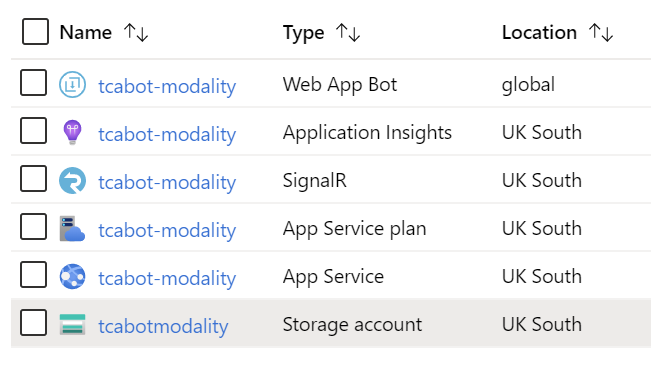
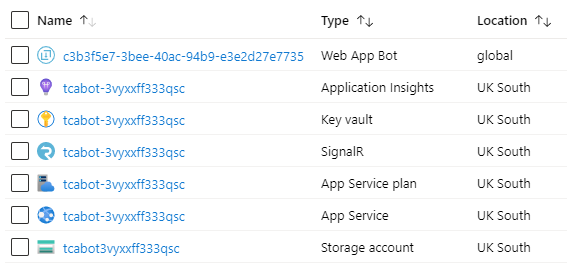
Updated to include Key Vault

diff --git a/TeamsChatAssist/armdeploy.md b/TeamsChatAssist/armdeploy.md
@@ -10,13 +10,14 @@ Teams Chat Assist Bot can be provided as an Azure Resource Manager (ARM) templat
 
 This ARM Template will install resources in your Azure tenant. The template will deploy the following resources:
 
-| Service Type  | Description   |
-| ------------- | ------------- |
-| Web App Bot  | S1 Standard |
-| Web App Service  | S1, 100 Total ACU, 1.75GB memory, A-Series Compute Equivalant  |
-| SignalR Service  | 1 Unit, 1K Connections, 1M Messages per day  |
-| Application Insights  | Logs for Web App Bot and Web App Service |
-| Storage Accounts  | Block Blob Storage, General Purpose V2, RA-GRS Redundancy, 1,000 GB Capacity, 100 Storage transactions |
+| Service Type         | Description                                                                                            |
+| -------------------- | ------------------------------------------------------------------------------------------------------ |
+| Web App Bot          | S1 Standard                                                                                            |
+| Web App Service      | S1, 100 Total ACU, 1.75GB memory, A-Series Compute Equivalant                                          |
+| Key Vault            | Securely stores Web App Bot Secret                                                                     |
+| SignalR Service      | 1 Unit, 1K Connections, 1M Messages per day                                                            |
+| Application Insights | Logs for Web App Bot and Web App Service                                                               |
+| Storage Accounts     | Block Blob Storage, General Purpose V2, RA-GRS Redundancy, 1,000 GB Capacity, 100 Storage transactions |
 
 ## Installation
 
@@ -24,11 +25,12 @@ This ARM Template will install resources in your Azure tenant. The template will
 
    ![Custom deployment form](images/armDeployForm.png)
 
-1. Carefully fill in the fields. In some cases the tooltips may provide extra guidance. 
+1. Carefully fill in the fields. In some cases the tooltips may provide extra guidance.
+
    - Basics
      - **Subscription** - Choose the Azure subscription to which deployed resources will be billed.
-     - **Resource group** - It is strongly recommended that you create a new resource group for logical grouping and management of Teams Chat Assist. *When applying an upgrade choose the Resource Group that already contains Teams Chat Assist.*
-     - **Location** - The location of the newly created resource group (this only determines the geographical location of resource group and its metadata, to change the location of the resources themselves, see *Location* below).
+     - **Resource group** - It is strongly recommended that you create a new resource group for logical grouping and management of Teams Chat Assist. _When applying an upgrade choose the Resource Group that already contains Teams Chat Assist._
+     - **Location** - The location of the newly created resource group (this only determines the geographical location of resource group and its metadata, to change the location of the resources themselves, see _Location_ below).
    - Settings
      - **Azure Application details** - Use the details you generated when [registering an application](applicationRegistration.md).
      - **Name** - This is the name used for all components that get deployed and must be globally unique. **The name of your company would be a good choice** and will be apended with 'tcabot-'
@@ -38,34 +40,37 @@ This ARM Template will install resources in your Azure tenant. The template will
 
 1. Read the Terms and Conditions, then click "I agree to the terms and conditions stated above" and click "Purchase" (this refers to the resources hosted on Azure, and is not a usage agreement for Teams Chat Assist.)
 
-1. After a period of deployment should get a Resource group in your tenant with the following componants
+1. After a period of deployment should get a Resource group in your tenant with the following components
 
    ![Resource Group](images/resourceGroup.png)
+
+   > The name of the Web App Bot is the Azure Application ID you entered in step 2. The other resources have a suffix of the ResourceGroup ID (not visible in Microsoft Azure Portal).
 
 1. The next step is to provision settings for your tenant in the storage account. The easiest way to do this is using the [Azure Storage Explorer](https://azure.microsoft.com/en-us/features/storage-explorer/)
 
    > If your company uses AD FS then you might have trouble signing into Azure Storage Explorer so try:
-      - On the left vertical tool bar, open Settings. In the Settings Panel, go to Application > Sign in. Enable Use device code flow sign-in.
-      - Open the Connect dialog box (either through the plug icon on the left-side vertical bar or by selecting Add Account on the account panel).
-      - Choose the environment you want to sign in to.
-      - Select Sign In.
-      - Follow the instructions on the next panel.
+
+   - On the left vertical tool bar, open Settings. In the Settings Panel, go to Application > Sign in. Enable Use device code flow sign-in.
+   - Open the Connect dialog box (either through the plug icon on the left-side vertical bar or by selecting Add Account on the account panel).
+   - Choose the environment you want to sign in to.
+   - Select Sign In.
+   - Follow the instructions on the next panel.
 
 1. Using Azure Storage Explorer that you have just installed, connect to your Azure Tenant and locate that storage account that was created as part of the ARM Deployment
 
 1. [Import the default values into table storage](ImportDefaultValuesTableStorage.md)
 
 1. Use the [Teams Web App](https://teams.microsoft.com/) to create a new Team for the bot to post agent messages too
+
    - On the Get Windows App screen click **Use web app instead**
-   ![TeamsWebAppInstead](images/teamsWebApp.png)
+     ![TeamsWebAppInstead](images/teamsWebApp.png)
    - Create a new Team and call it something like Teams Chat Assist Agents
    - Make it Private, skip adding members for now but revisit this when the deployment has finished and add your Agents as members
    - Create a Channel for the Bot to post agent messages too. Call it something appropriate to the bot such as company name or workload description
-   ![ConversationID](images/ConversationID2.png)
+     ![ConversationID](images/ConversationID2.png)
    - Copy Thread ID from address bar as indicated above and paste into the ChannelConversationId property in the instance configuration table
 
 1. [Edit the InstanceConfigurations table as desired](TableStorageConfiguration.md)
-  
 
 ## Bot Manifest
 
